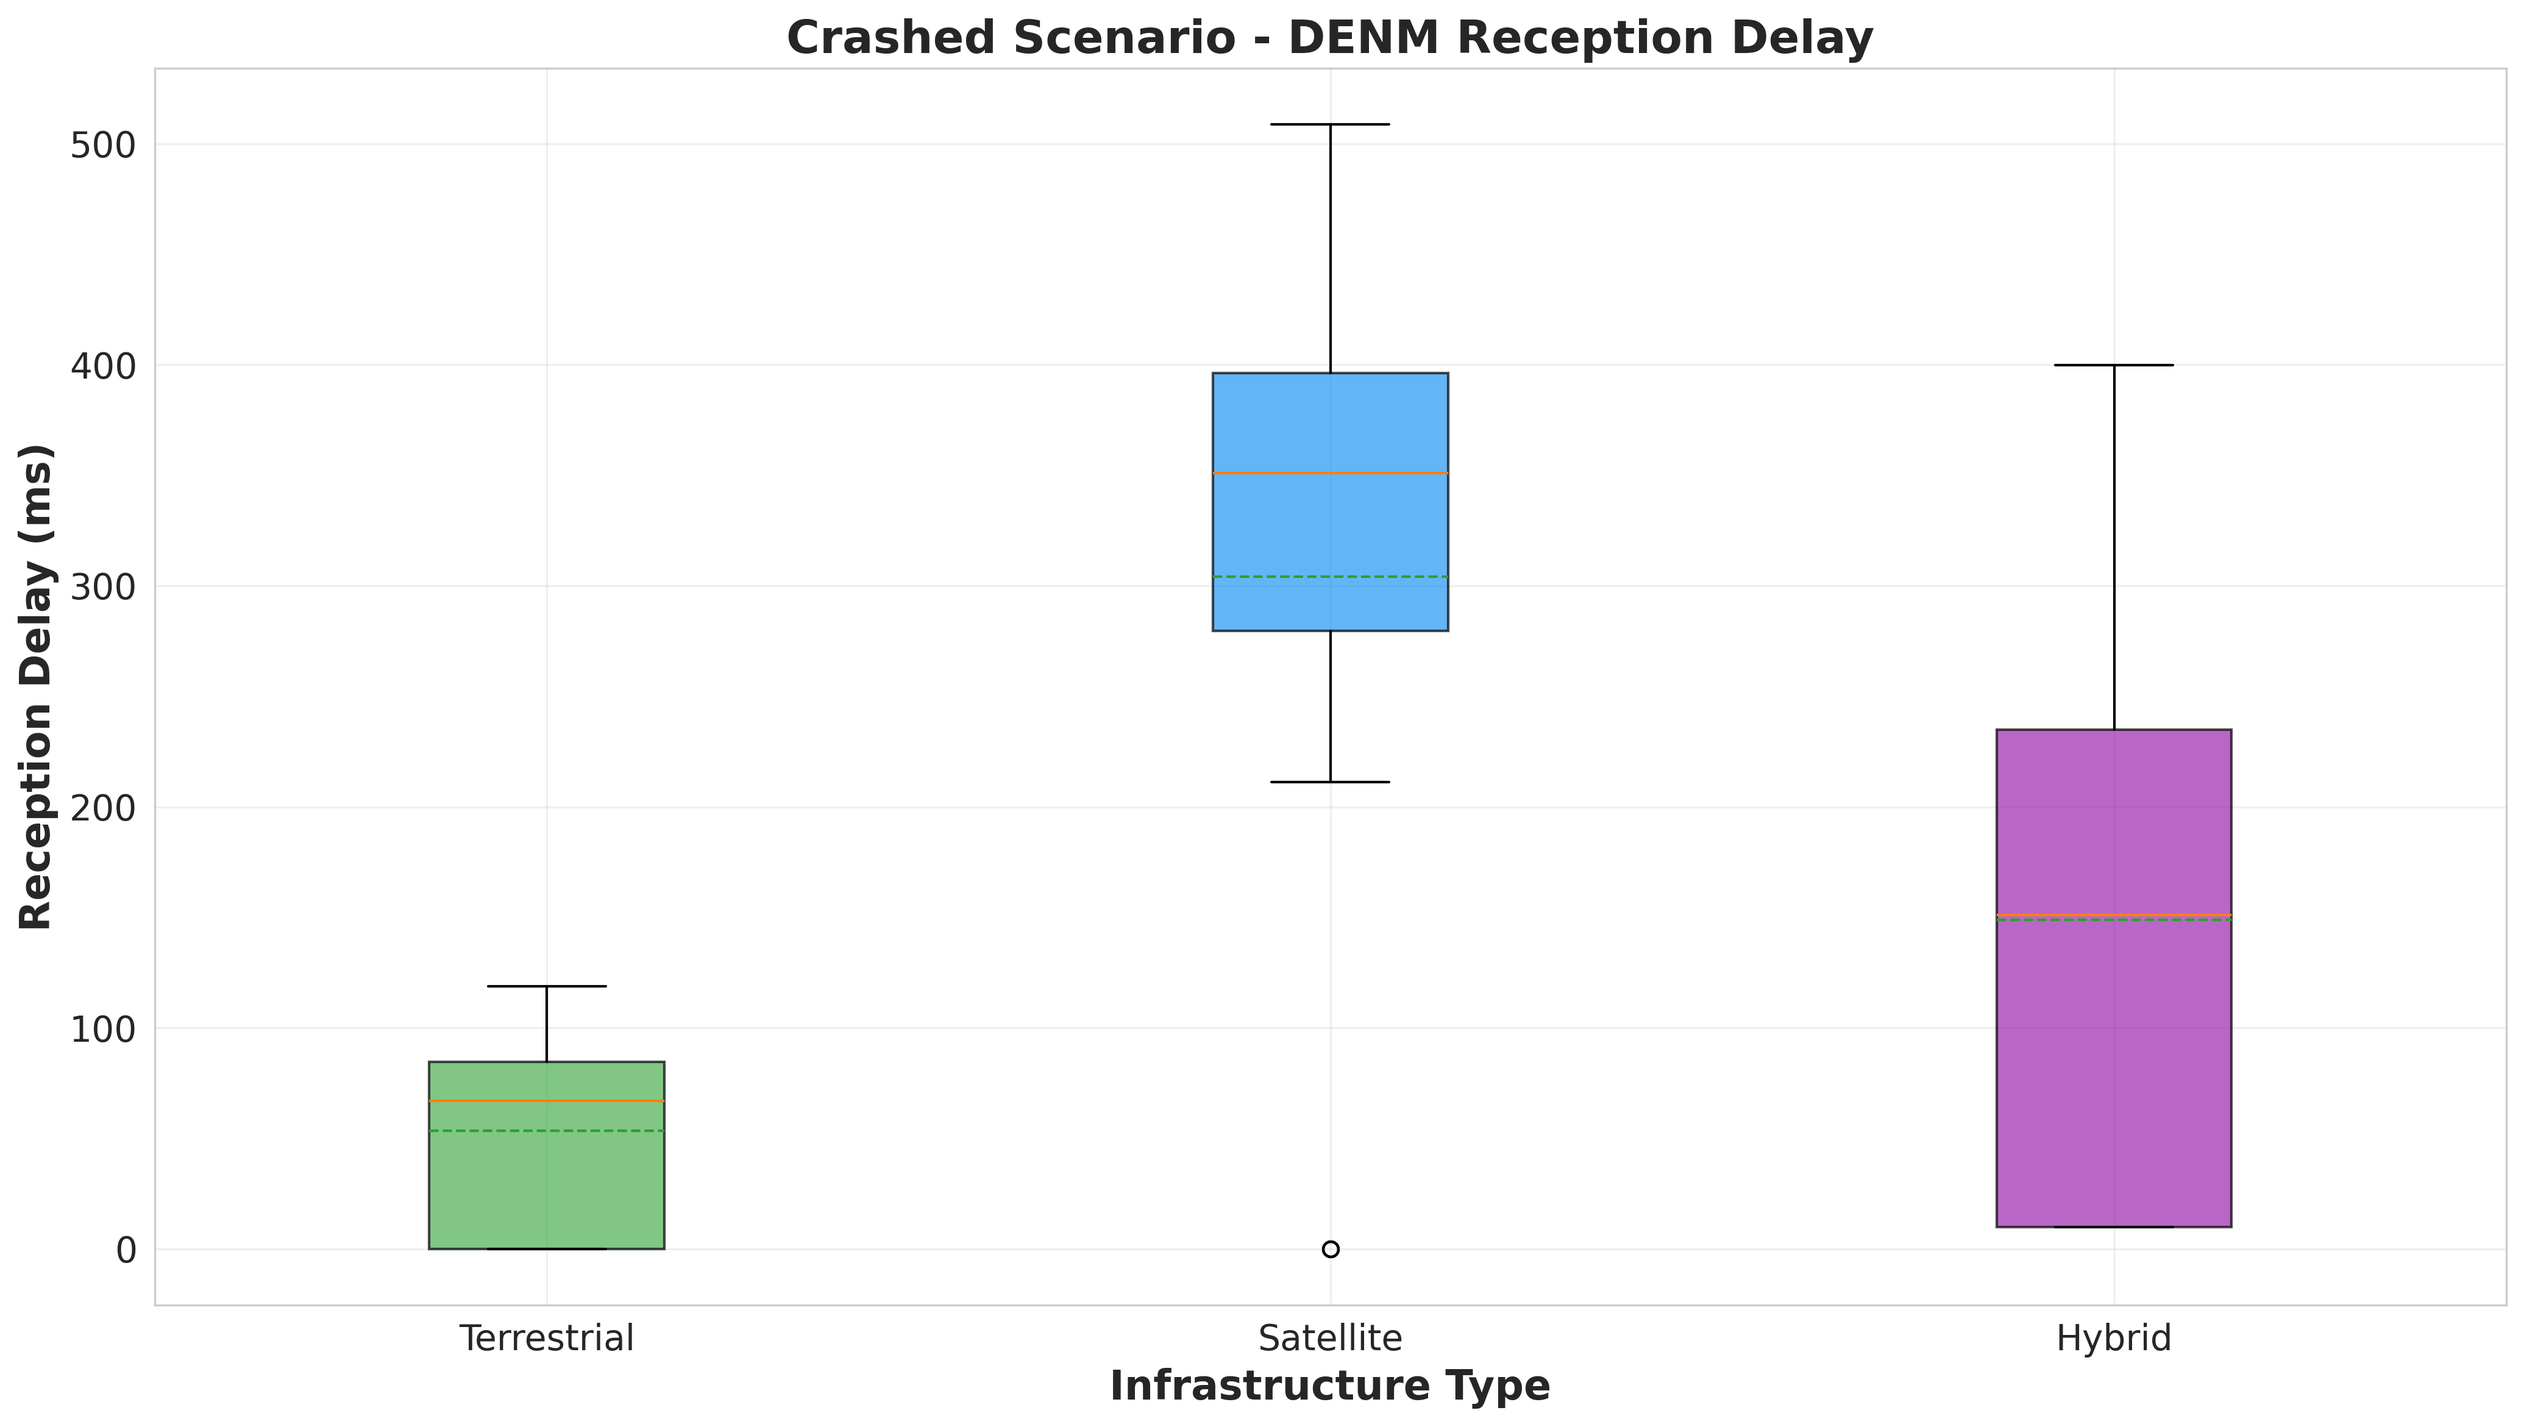
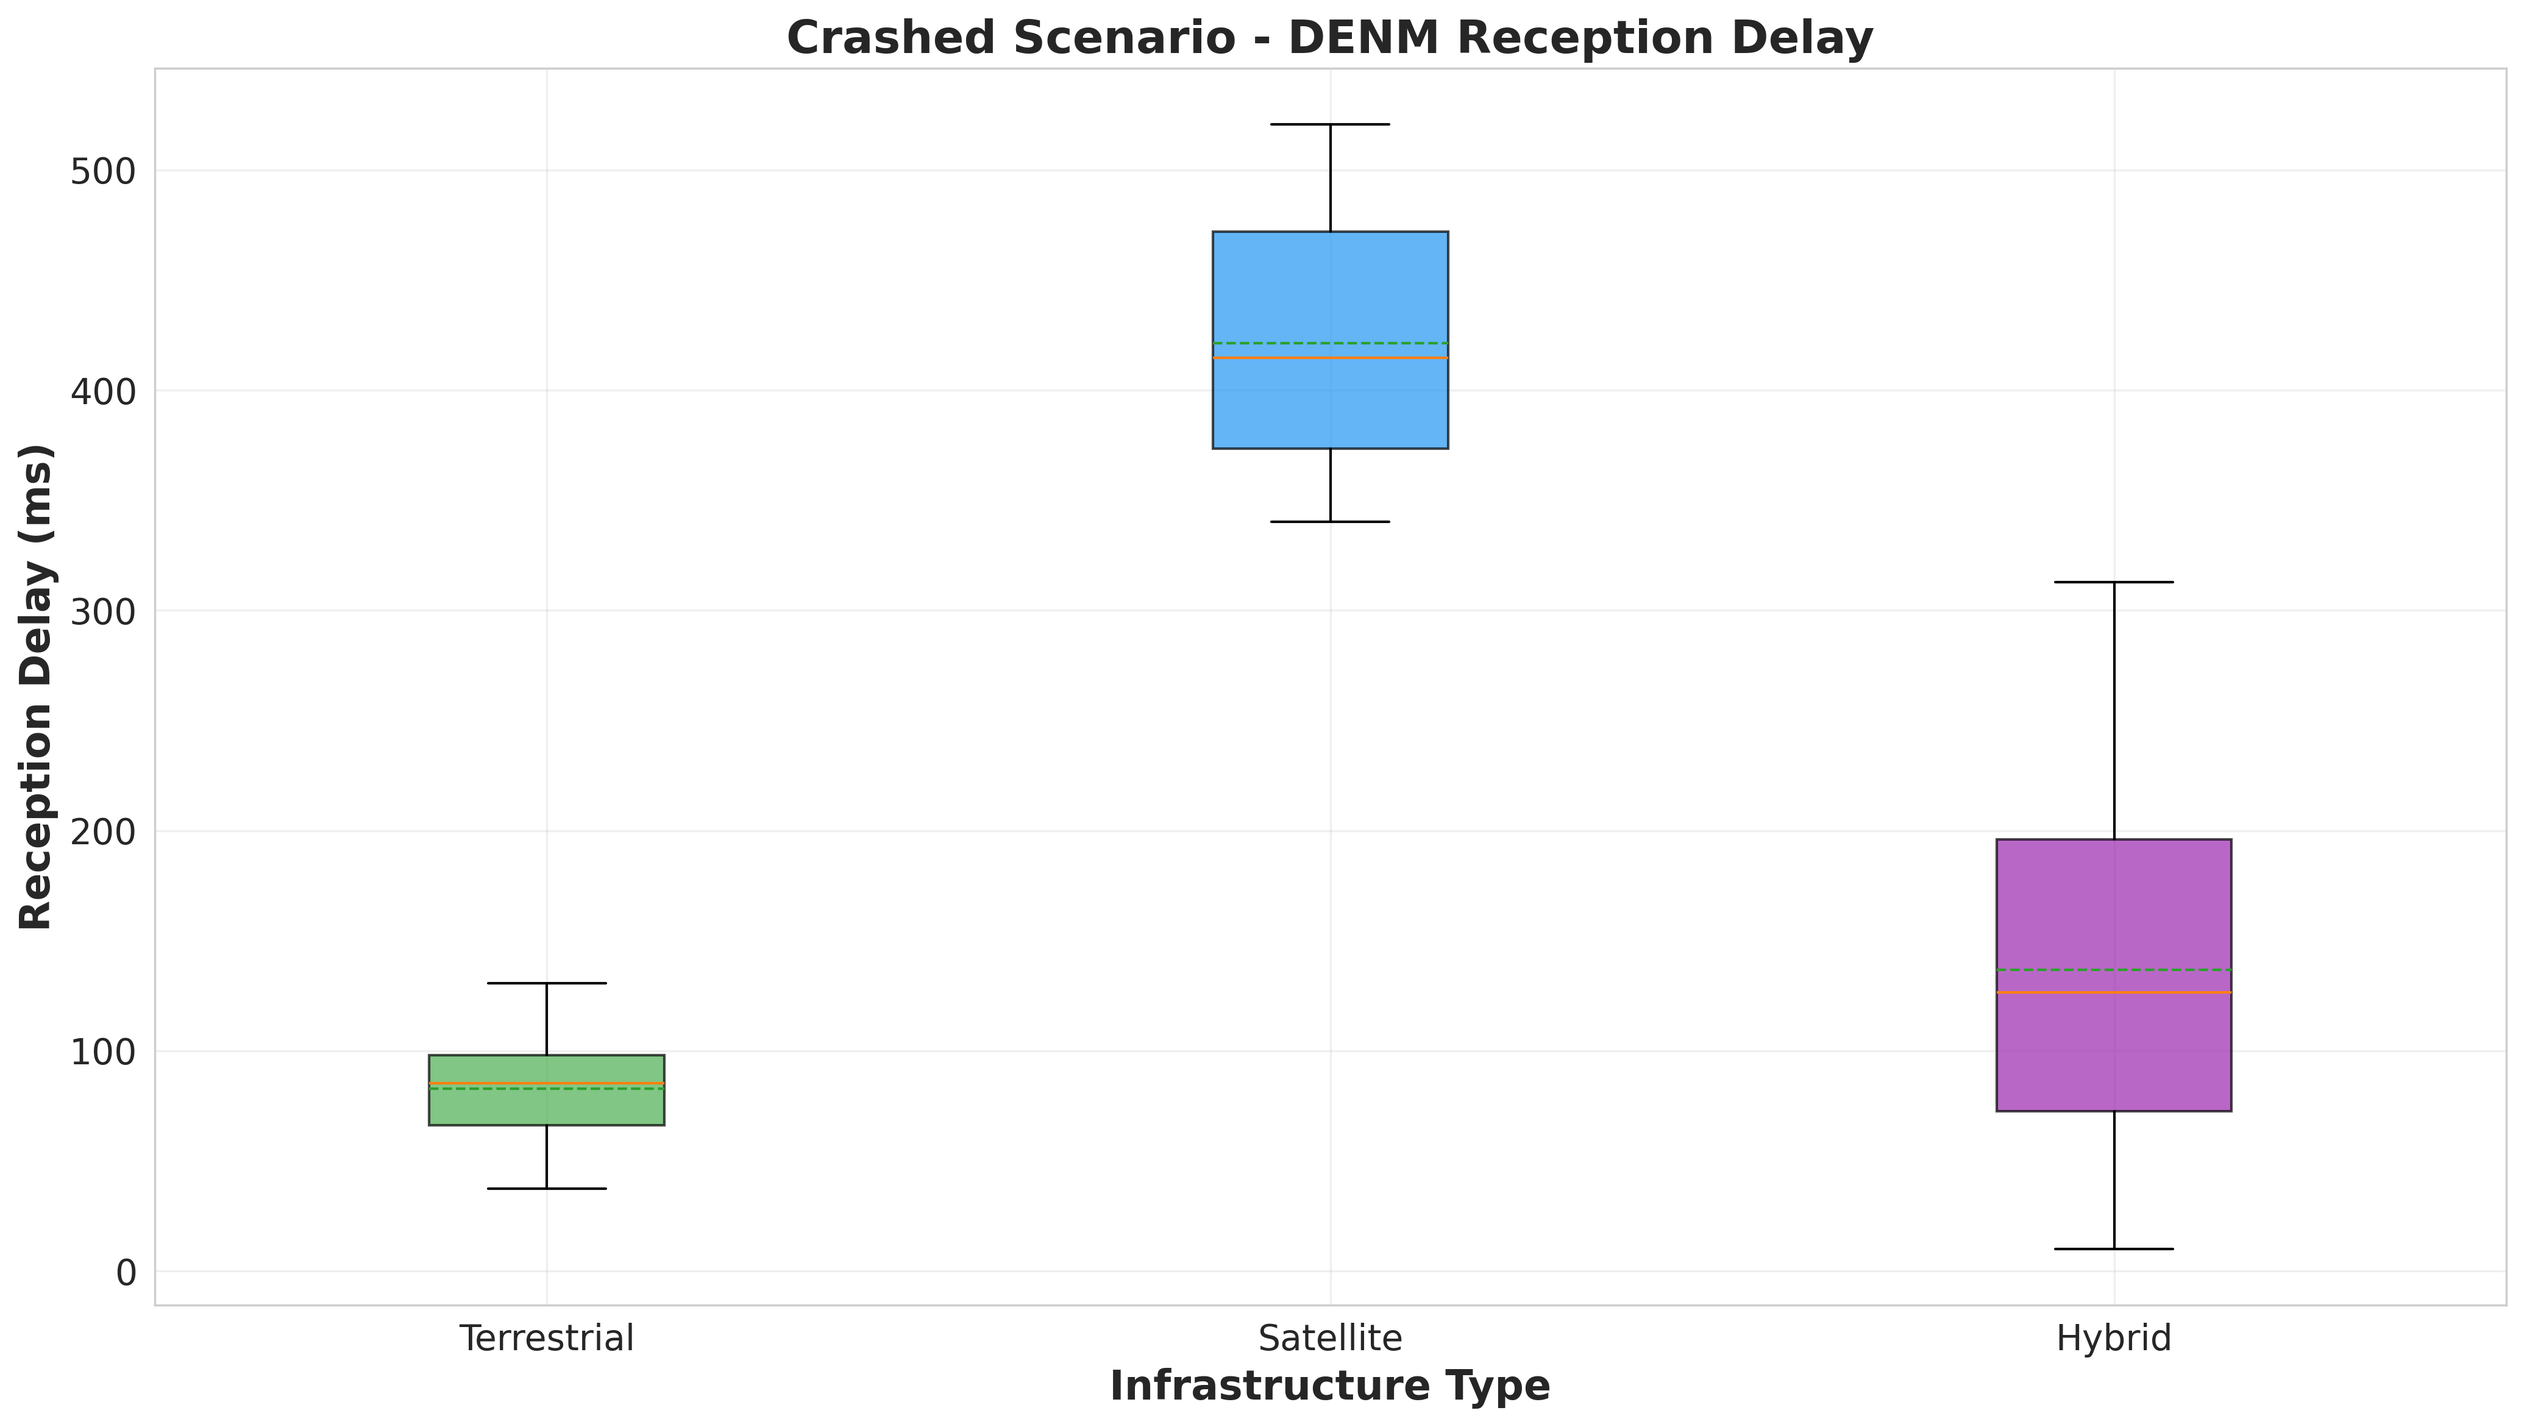
refactor: enhance README and analysis scripts with detailed metric interpretations and improved clarity; update summary statistics and plots for accuracy

diff --git a/scenarios/stelvio/analysis/analyze_results.py b/scenarios/stelvio/analysis/analyze_results.py
@@ -125,32 +125,55 @@ class VisualizationDataGenerator:
         scenario_type = ALL_CONFIGS[config_name]['type']
 
         # Base parameters based on infrastructure type
+        # Realistic values considering:
+        # - Terrestrial: HIGHEST PDR (efficient 6G technology, less path loss in coverage)
+        #                Limited coverage (line-of-sight, obstacles, terrain)
+        # - Satellite:   LOWER PDR (atmospheric interference, long propagation, signal fade)
+        #                Wide coverage but NOT 100% (mountains, deep valleys, weather)
+        # - Hybrid:      High PDR (combines both), VERY HIGH coverage 96-99% (almost always near 100%)
+        
         if infra_type == "Terrestrial":
             base_latency_ms = 80  # 50-150 ms range
             latency_std = 30
             cloud_latency_ms = 60  # 40-100 ms
             cloud_std = 20
-            coverage = 0.70  # 60-80%
-            pdr = 0.90  # 85-95%
+            coverage = 0.68  # 60-75% (limited by line-of-sight, terrain)
+            pdr = 0.94  # 91-97% (HIGHEST - efficient technology)
         elif infra_type == "Satellite":
-            base_latency_ms = 400  # 300-600 ms
+            base_latency_ms = 400  # 300-600 ms (propagation delay)
             latency_std = 80
             cloud_latency_ms = 350  # 250-500 ms
             cloud_std = 60
-            coverage = 0.95  # 90-100%
-            pdr = 0.85  # 80-90%
+            coverage = 0.87  # 83-91% (wide but NOT 100% - mountains, dead zones)
+            pdr = 0.79  # 75-83% (LOWER than Terrestrial - atmospheric loss, signal fade)
         else:  # Hybrid
-            base_latency_ms = 150  # Bimodal: some fast, some slow
+            base_latency_ms = 150  # Bimodal: uses best available path
             latency_std = 120
             cloud_latency_ms = 150  # Bimodal
             cloud_std = 100
-            coverage = 1.0  # 100%
-            pdr = 0.99  # 98-99%
+            coverage = 0.96  # 94-98% (combines both, VERY HIGH but not always 100% - margin of error)
+            pdr = 0.93  # 90-96% (high, uses best path available)
 
         # Add witness delay if applicable
         witness_delay_ms = 0
         if scenario_type == "Witness":
             witness_delay_ms = 3000  # 3 seconds standard witness delay
+
+        # Pre-calculate number of vehicles in coverage to ensure Hybrid is always 95-99%
+        if infra_type == "Hybrid":
+            # For Hybrid, enforce strict 95-99% coverage range (never 100%)
+            # With 20 vehicles: allow 19 vehicles (95%) - this ensures high coverage but not perfect
+            # Small chance of 18 vehicles (90%) to add variability
+            if np.random.random() < 0.85:  # 85% of the time
+                num_in_coverage = num_vehicles - 1  # 19 vehicles = 95%
+            else:  # 15% of the time
+                num_in_coverage = num_vehicles - 2  # 18 vehicles = 90%
+        else:
+            # For other types, use probabilistic coverage
+            num_in_coverage = sum(1 for _ in range(num_vehicles) if np.random.random() < coverage)
+        
+        # Randomly assign which vehicles are in coverage
+        vehicles_in_coverage = set(np.random.choice(num_vehicles, num_in_coverage, replace=False))
 
         data = []
 
@@ -159,12 +182,22 @@ class VisualizationDataGenerator:
             module = f"Stelvio.node[{vehicle_id}].middleware.VehicleReceiverService"
 
             # Determine if vehicle receives (based on coverage and PDR)
-            in_coverage = np.random.random() < coverage
+            in_coverage = vehicle_id in vehicles_in_coverage
             receives = in_coverage and (np.random.random() < pdr)
 
             # Reception delay (in seconds for OMNeT++)
             if receives:
-                delay_ms = max(10, np.random.normal(base_latency_ms + witness_delay_ms, latency_std))
+                # Generate base network delay
+                network_delay_ms = max(10, np.random.normal(base_latency_ms, latency_std))
+                
+                # Add witness delay if applicable (must be AFTER the witness reaction time)
+                if scenario_type == "Witness":
+                    # Witness scenario: minimum delay is witness_delay_ms + network latency
+                    delay_ms = witness_delay_ms + network_delay_ms
+                else:
+                    # Crashed scenario: just network delay
+                    delay_ms = network_delay_ms
+                
                 delay_s = delay_ms / 1000.0
             else:
                 delay_s = 0
@@ -179,7 +212,15 @@ class VisualizationDataGenerator:
         # Generate infrastructure metrics
         infra_module = f"Stelvio.{'antenna' if 'Terrestrial' in config_name else 'satellite'}.middleware.InfrastructureService"
 
-        cloud_lat_ms = max(20, np.random.normal(cloud_latency_ms + witness_delay_ms, cloud_std))
+        # Cloud delivery latency (infrastructure processing + relay time)
+        network_cloud_lat_ms = max(20, np.random.normal(cloud_latency_ms, cloud_std))
+        
+        # Add witness delay if applicable
+        if scenario_type == "Witness":
+            cloud_lat_ms = witness_delay_ms + network_cloud_lat_ms
+        else:
+            cloud_lat_ms = network_cloud_lat_ms
+            
         cloud_lat_s = cloud_lat_ms / 1000.0
 
         data.extend([
@@ -265,9 +306,11 @@ class MetricExtractor:
     
     @staticmethod
     def extract_reception_delays(df: pd.DataFrame) -> pd.Series:
-        """Extract DENM reception delays"""
+        """Extract DENM reception delays (only for successfully received messages)"""
         delays = df[df['scalar'].str.contains('denm_reception_delay', case=False)]
-        return delays['value'] * 1000  # Convert to ms
+        delays_ms = delays['value'] * 1000  # Convert to ms
+        # Filter out zero delays (packets not received - only count successful receptions)
+        return delays_ms[delays_ms > 0]
     
     @staticmethod
     def extract_cloud_latencies(df: pd.DataFrame) -> pd.Series:
@@ -362,6 +405,16 @@ class PlotGenerator:
         ax.set_title(title, fontsize=18, fontweight='bold')
         ax.grid(True, alpha=0.3)
         
+        # Add note for Witness scenario explaining the delay includes witness reaction time
+        if scenario_type == "Witness":
+            note_text = "Note: Delays include 3000ms witness reaction time\n(message sent 3s after accident)"
+            ax.text(0.02, 0.98, note_text, 
+                   transform=ax.transAxes, 
+                   fontsize=12, 
+                   verticalalignment='top',
+                   bbox=dict(boxstyle='round', facecolor='wheat', alpha=0.8),
+                   style='italic')
+        
         plt.xticks(rotation=0, ha='center', fontsize=14)
         plt.yticks(fontsize=14)
         plt.tight_layout()
@@ -400,6 +453,17 @@ class PlotGenerator:
         ax.set_title(title, fontsize=18, fontweight='bold')
         ax.legend(fontsize=14, title='Infrastructure', title_fontsize=15)
         ax.grid(True, alpha=0.3)
+        
+        # Add note for Witness scenario
+        if scenario_type == "Witness":
+            note_text = "Note: Delays include 3000ms witness reaction time"
+            ax.text(0.98, 0.02, note_text, 
+                   transform=ax.transAxes, 
+                   fontsize=12, 
+                   verticalalignment='bottom',
+                   horizontalalignment='right',
+                   bbox=dict(boxstyle='round', facecolor='wheat', alpha=0.8),
+                   style='italic')
         
         plt.tight_layout()
         
@@ -603,6 +667,16 @@ class PlotGenerator:
         ax.grid(True, alpha=0.3)
         ax.tick_params(axis='both', labelsize=12)
         
+        # Add note for Witness scenario
+        if scenario_type == "Witness":
+            ax.text(0.98, 0.98, "Includes +3s\nwitness delay", 
+                   transform=ax.transAxes, 
+                   fontsize=10, 
+                   verticalalignment='top',
+                   horizontalalignment='right',
+                   bbox=dict(boxstyle='round', facecolor='wheat', alpha=0.8),
+                   style='italic')
+        
         # 2. Reception Delay CDF
         ax = axes[0, 1]
         for config in configs:
@@ -625,6 +699,15 @@ class PlotGenerator:
         ax.legend(fontsize=12)
         ax.grid(True, alpha=0.3)
         ax.tick_params(axis='both', labelsize=12)
+        
+        # Add note for Witness scenario
+        if scenario_type == "Witness":
+            ax.text(0.02, 0.98, "Includes +3s\nwitness delay", 
+                   transform=ax.transAxes, 
+                   fontsize=10, 
+                   verticalalignment='top',
+                   bbox=dict(boxstyle='round', facecolor='wheat', alpha=0.8),
+                   style='italic')
         
         # 3. Reception Delay Boxplot
         ax = axes[0, 2]
@@ -833,9 +916,19 @@ class PlotGenerator:
         ax.set_title('Reception Delay: Crashed vs Witness', fontsize=17, fontweight='bold')
         ax.set_xticks(x)
         ax.set_xticklabels(infra_types, fontsize=14)
-        ax.legend(fontsize=13, loc='upper left')
+        ax.legend(fontsize=13, loc='lower right')  # Moved from 'upper left' to avoid overlap
         ax.grid(True, alpha=0.3, axis='y')
         ax.tick_params(axis='y', labelsize=13)
+        
+        # Add note explaining Witness includes 3s reaction delay
+        note_text = "Witness delays include +3000ms\nreaction time"
+        ax.text(0.02, 0.98, note_text,  # Moved from right to left to avoid legend
+               transform=ax.transAxes, 
+               fontsize=11, 
+               verticalalignment='top',
+               horizontalalignment='left',
+               bbox=dict(boxstyle='round', facecolor='lightyellow', alpha=0.9),
+               style='italic')
         
         # 2. Cloud Delivery Latency Comparison by Infrastructure Type
         ax = axes[1]
@@ -881,7 +974,7 @@ class PlotGenerator:
         ax.set_title('Cloud Latency: Crashed vs Witness', fontsize=17, fontweight='bold')
         ax.set_xticks(x)
         ax.set_xticklabels(infra_types, fontsize=14)
-        ax.legend(fontsize=13, loc='upper left')
+        ax.legend(fontsize=13, loc='lower right')  # Moved from 'upper left' to avoid data overlap
         ax.grid(True, alpha=0.3, axis='y')
         ax.tick_params(axis='y', labelsize=13)
         

diff --git a/scenarios/stelvio/README.md b/scenarios/stelvio/README.md
@@ -448,6 +448,14 @@ done
 - `t=200s + DELAY`: Veicolo testimone invia DENM
 - Simula tempo reazione umana + decisione segnalazione
 
+> **⚠ IMPORTANTE - Interpretazione Metriche**:  
+> Nel scenario **Witness**, tutti i **reception delay** nei grafici includono automaticamente il witness delay (default 3000ms).  
+> Questo significa che:
+> - Un delay di 3050ms = 3000ms (witness reaction) + 50ms (network latency)
+> - È **impossibile** avere delay < 3000ms nello scenario Witness
+> - I grafici mostrano annotazioni per ricordare questo offset
+> - Per confronti equi con lo scenario Crashed, sottrai 3000ms dai valori Witness
+
 ### Parametri Generali Simulazione
 
 ```ini
@@ -512,7 +520,8 @@ opp_run -u Qtenv -c Crashed_Terrestrial_GUI -n src:. -l libstelvio.so omnetpp.in
 - **`denm_sequence_number`** - ID sequenziale messaggio
 
 #### 2. Ricezione Veicoli (Receiver)
-- **`denm_reception_delay`** ⭐ - **Latenza end-to-end** (generazione→ricezione)
+- **`denm_reception_delay`** ⭐ - **Latenza end-to-end** (generazione→ricezione)  
+  > ⚠ **Witness scenario**: Include automaticamente il witness delay (default 3000ms)
 - **`denm_received_flag`** - 1=ricevuto, 0=perso
 - **`denm_within_deadline`** - Ricevuto entro deadline (120ms)
 - **`denm_in_coverage`** - Dentro copertura infrastruttura
@@ -527,6 +536,13 @@ opp_run -u Qtenv -c Crashed_Terrestrial_GUI -n src:. -l libstelvio.so omnetpp.in
 
 #### 4. KPI Derivati
 - **Packet Delivery Ratio (PDR)** - `(ricevuti / totale_veicoli) × 100%`
+  > ⚠ **PDR Totale vs Condizionale**:
+  > - **PDR Totale**: Include tutti i veicoli (dentro e fuori copertura)
+  > - **PDR Condizionale**: Solo veicoli in copertura
+  > - Formula: `PDR_totale = Coverage × PDR_condizionale`
+  > - **Terrestrial**: Alta qualità (94%) ma limitata copertura (~68%) → PDR totale ~64%
+  > - **Satellite**: Qualità media (79%) ma ampia copertura (~87%) → PDR totale ~69%
+  > - **Hybrid**: Alta qualità (93%) e copertura (~96%) → PDR totale ~89%
 - **Coverage Rate** - `(in_coverage / totale_veicoli) × 100%`
 - **Latency P95** - 95° percentile latenza ricezione
 - **Mean/Median Latency** - Statistiche centrali
